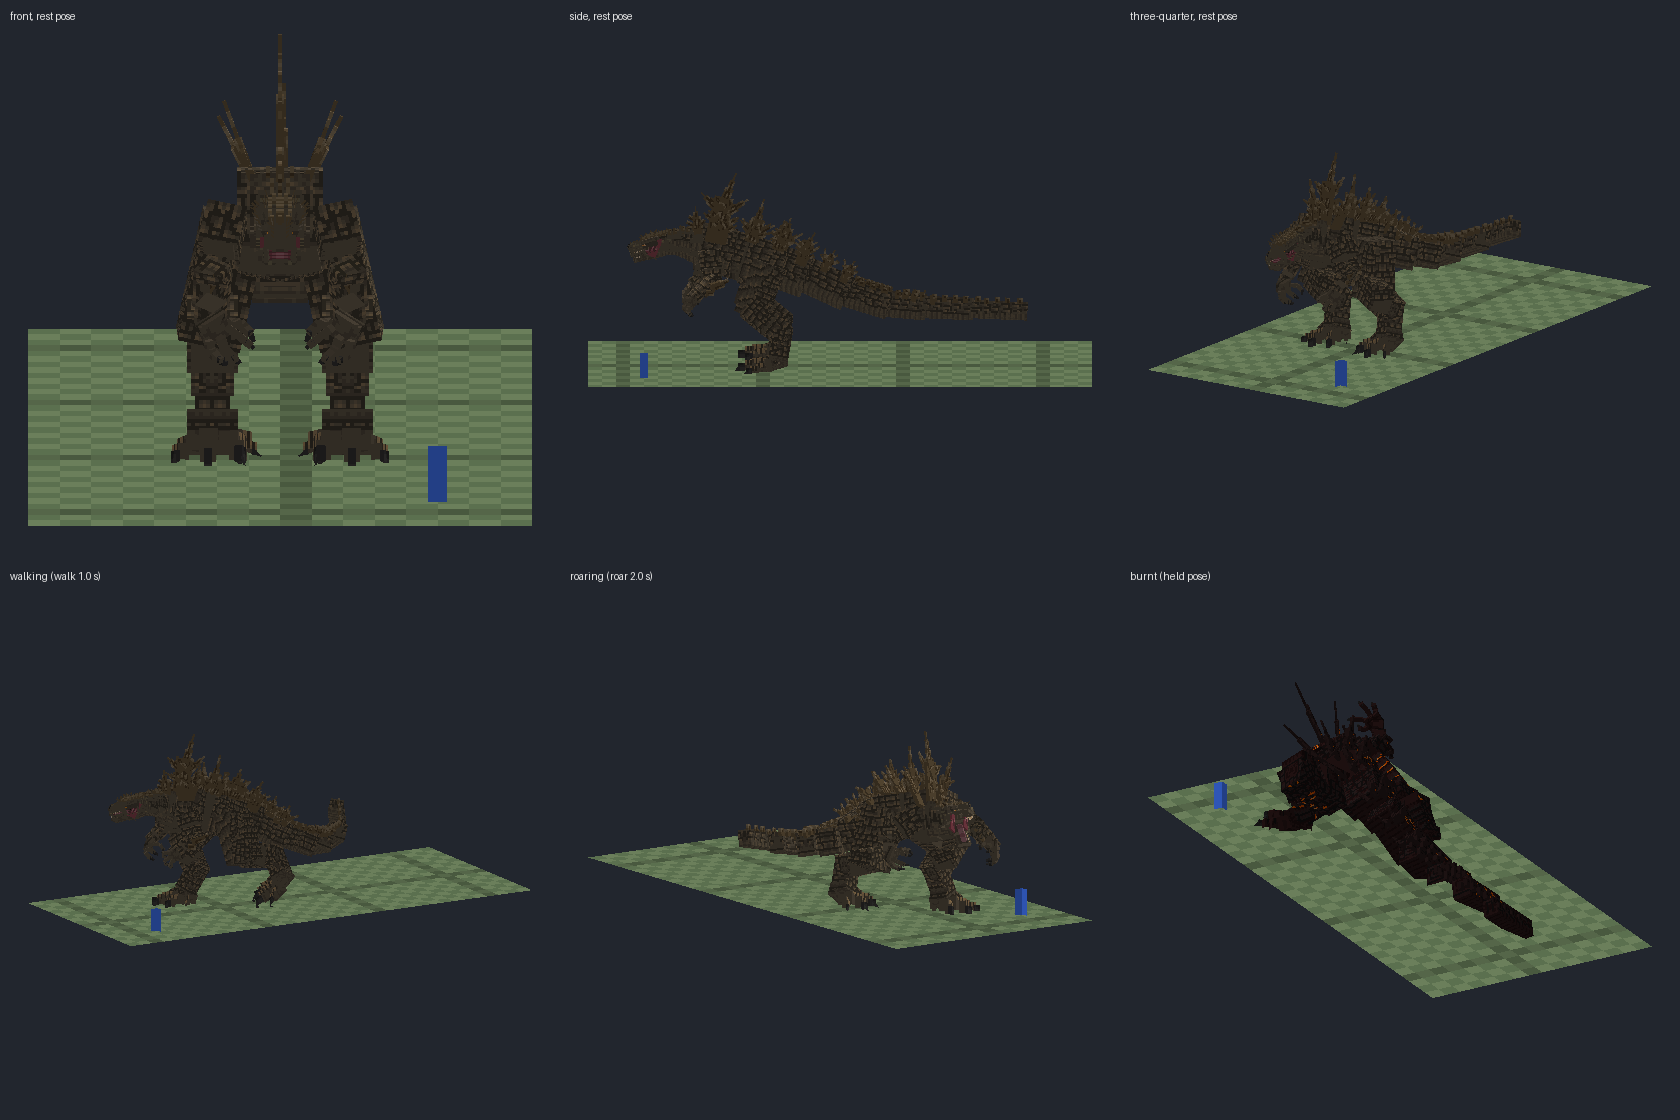
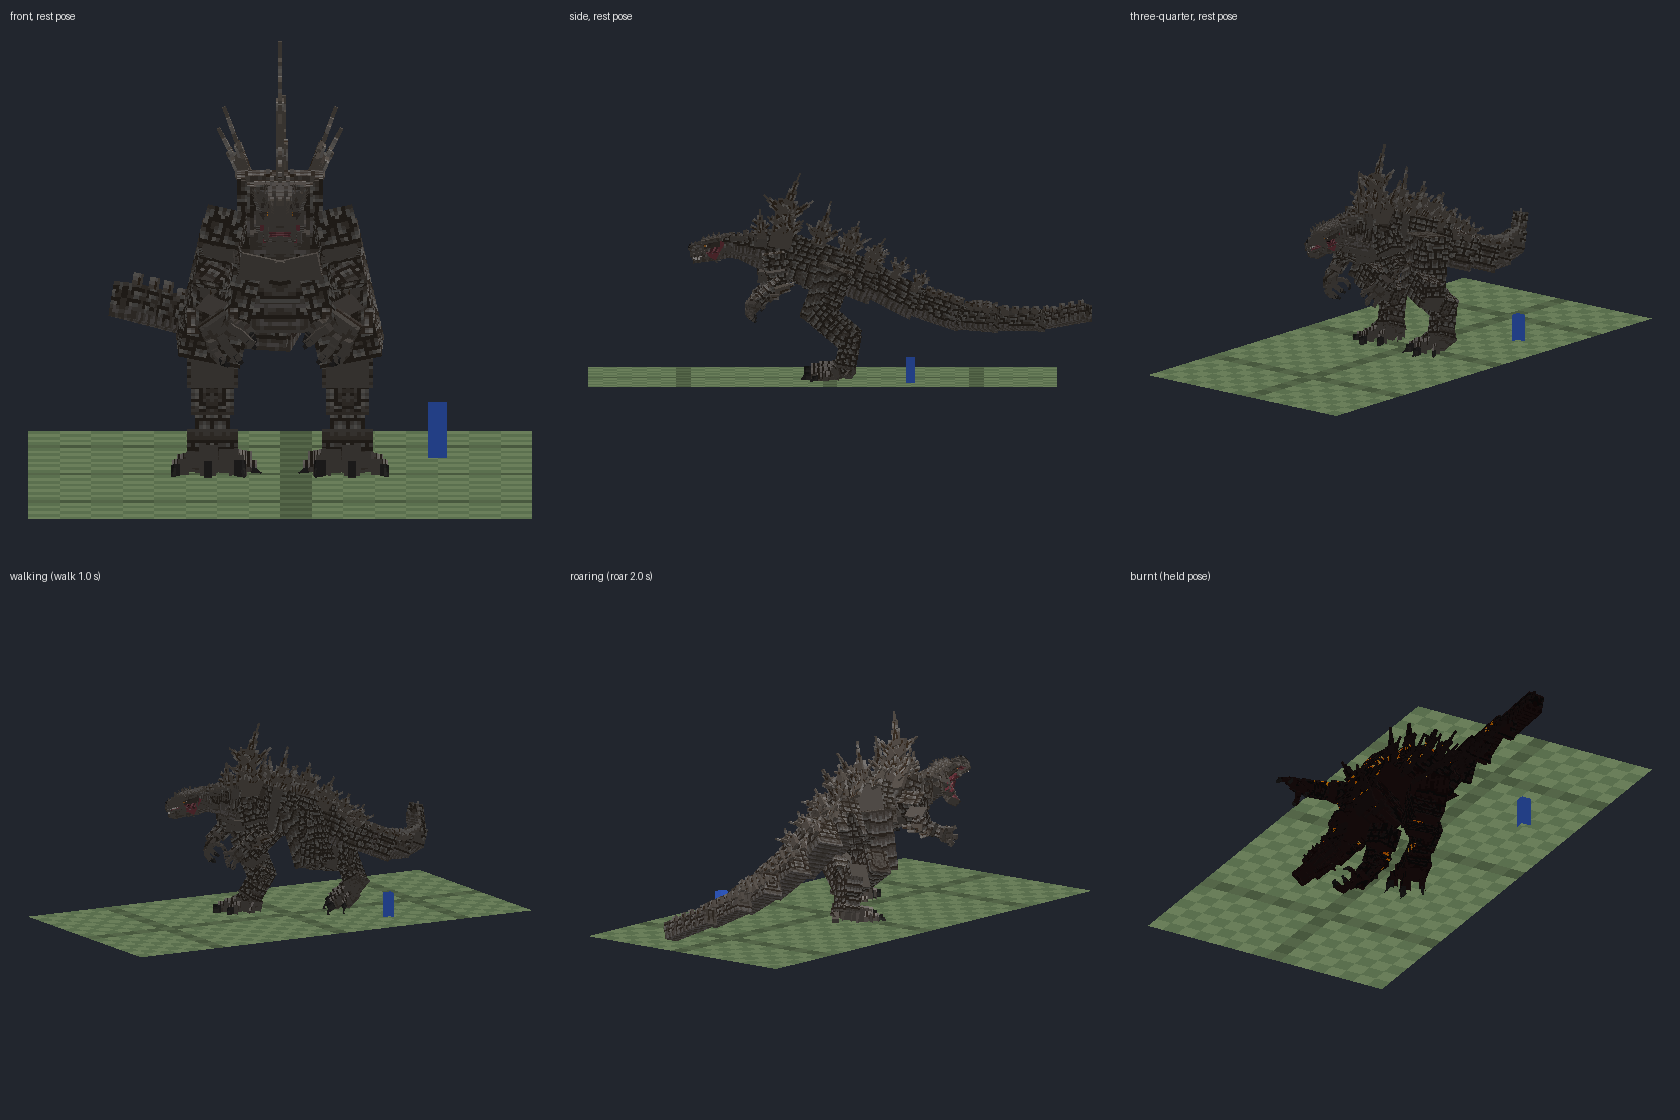
README, previews and credits for this round
The README covers the changes: the flattening (140 blocks, Y 65), the
first breath's delay, the building rule (half his height down to a
quarter, only with nothing to kill), the roar timer, the one-shot guns,
the Odo's grey-brown hide and frenzy, the searchlight's pool of light,
Alex's Caves' mushroom cloud, the Shinsei Maru and the config screen's
new sliders. docs/odo_preview.png shows the new hide,
docs/shinsei_maru_preview.png the boat. The credits (README and
mods.toml) add Alex's Caves' mushroom cloud (AlexModGuy, GNU LGPL).

Claude-Session: https://claude.ai/code/session_01FZRWx5ihaDNBvykxaLAGZd

diff --git a/README.md b/README.md
@@ -2,11 +2,13 @@
 
 A Minecraft Java Edition (Forge 1.20.1, GeckoLib 4) port of the Bedrock add-on
 **"Godzilla Minus One" V3 by GojiDraw**. Godzilla is the add-on's own model, textures and animations, exactly
-(scaled up evenly to stand 10 blocks taller), and so are the Shinden, naval mine, sounds, effects and the atomic
-blast's mushroom cloud. The mod also adds the **Odo Island Monster** (Godzilla's smaller, dinosaur-like form
-from the start of the film): Monster122's **Godzillasaurus** from the "G-1" Bedrock add-on, with its own model,
-skins and animations. There are also a **searchlight**, a **nuclear bomb**, a **remote detonator** for the naval
-mines, and posed **Godzilla statues** for screenshots and thumbnails.
+(scaled up evenly to stand 10 blocks taller), and so are the Shinden, naval mine, sounds and effects. The atomic
+blast's mushroom cloud is **Alex's Caves'** orange nuclear mushroom cloud, ported. The mod also adds the **Odo
+Island Monster** (Godzilla's smaller, dinosaur-like form from the start of the film): Monster122's
+**Godzillasaurus** from the "G-1" Bedrock add-on, with its own model and animations. There are also the **Shinsei
+Maru**, the film's little minesweeper with its stern machine gun and a hold of naval mines, a **searchlight**, a
+**nuclear bomb**, a **remote detonator** for the naval mines, and posed **Godzilla statues** for screenshots and
+thumbnails.
 
 ![Godzilla: front, side, three-quarter and charged](docs/godzilla_preview.png)
 
@@ -20,8 +22,14 @@ tall.*
 
 ![The Odo Island Monster](docs/odo_preview.png)
 
-*The Odo Island Monster (Monster122's Godzillasaurus): front, side and three-quarters, walking, roaring, and
-burnt to a crisp by a nuclear bomb. Same grid and player as above.*
+*The Odo Island Monster (Monster122's Godzillasaurus, his hide turned grey and brown): front, side and
+three-quarters, walking, roaring, and burnt to a crisp by a nuclear bomb. Same grid and player as above.*
+
+![The Shinsei Maru](docs/shinsei_maru_preview.png)
+
+*The Shinsei Maru: the wheel up on the wheelhouse roof, cages on the foredeck, a rack of recovered naval mines
+astern, and the Type 93 machine gun on the stern platform pointing aft. Offline renders on a one-block grid, with
+a player.*
 
 ![Searchlight and nuclear bomb](docs/props_preview.png)
 
@@ -31,9 +39,11 @@ burnt to a crisp by a nuclear bomb. Same grid and player as above.*
 
 ![The mushroom cloud](docs/cloud_preview.png)
 
-*The atomic blast's mushroom cloud, GojiDraw's: his five smoke layers (a dark stalk, a broad grey cap 400 blocks
-across with a darker rim, a brown sooty top), 0.5, 2, 5, 15 and 26 seconds after the blast, from 800 blocks
-away and from about where Godzilla stands (offline simulation of the same layers, over 20-block squares).*
+*The atomic blast's mushroom cloud, Alex's Caves' (its model, textures and animation, 240 blocks tall here):
+the white-hot fireball, the mushroom bursting out of it, the full cap over the fiery plume with the rings spreading,
+the glow cooling to smoke, and the fade at the end (0.25, 1, 5, 20, 40 and 59.5 s), from the side, three-quarters,
+below, above and far away. Offline renders of the same model and passes (tools/preview_cloud.py), over 20-block
+squares; the red post is Godzilla's height. The fiery puffs are drawn as plain blobs there.*
 
 ## Requirements
 
@@ -51,9 +61,10 @@ away and from about where Godzilla stands (offline simulation of the same layers
 | `goji:torrid` | **Torrid**, the Shinden's cannons: right-click while flying it |
 | `goji:mine_spawn` / `goji:mine` | **Naval Mine**, craftable (4 netherite ingots, 4 netherite blocks, TNT in the middle), and a **Remote Detonator** for it |
 | `goji:nuclear_hole` | The crater and blast wave left by the atomic breath |
-| Nuclear explosion particles | The flash, shockwaves and black rain as particles; the mushroom cloud's five smoke layers drawn by `client/render/NuclearCloud.java` |
+| Nuclear explosion particles | The flash, shockwaves and black rain as particles; the mushroom cloud is Alex's Caves' (`client/render/NuclearCloud.java`, `MushroomCloudModel.java`) |
 | Particles, camera shakes, custom boss bar | Recreated in Java (see `client/`); the fade to black is a blur instead |
 | *(from Monster122's G-1 add-on)* | **Odo Island Monster** (`godzillaminusone:odo_island_monster`), with its spawn egg |
+| *(new, from the film)* | **Shinsei Maru**, the minesweeper: a boat with a stern machine gun and a hold of naval mines |
 | *(new)* | **Searchlight**, a mountable WWII searchlight |
 | *(new)* | **Nuclear Bomb**, called in from the sky |
 | *(new)* | **Godzilla statues** in three poses, `/summon` only |
@@ -67,21 +78,26 @@ away and from about where Godzilla stands (offline simulation of the same layers
 - **Radiation aura**: anything within 16 blocks gets "RADIATION POISONING" and Wither.
 - Every footfall shakes the camera, hurts everything near him and **crushes a footprint** of rubble into the
   ground. He smashes through blocks (needs `mobGriefing`).
-- **He knocks down tall buildings**: when he sees anything built standing 15 blocks or more above the ground
-  (within 64 blocks), he goes over and swipes at it, ten layers at a time, until it stands lower than that,
-  then moves on. Trees and hills don't count.
+- **He knocks down tall buildings**: when there's nothing in sight for him to kill and he sees anything built
+  standing **half his height (23 blocks) or more** above the ground (within 64 blocks), he goes over and swipes
+  at it, ten layers at a time, until it's down to **a quarter of his height (11 blocks)**, then leaves it alone.
+  Trees and hills don't count. A mob turning up sends him after it instead.
+- **He roars every 2 minutes** (stopping where he is to do it); set how often in the config screen.
 - Up close he attacks in a combo: a **claw swipe with each hand**, then a **heavy spin** of his whole body with
   the tail sweeping round him and **snapping like a whip**. He bites at things above him, stomps on things
   under his feet, and swings the tail round at anything behind him.
+- For the first **2 to 3 minutes after he appears** he can't use his atomic breath yet.
 - With a target he **charges his atomic breath**: the dorsal plates light up blue one by one from the tail to
   the neck as they punch up, mobs freeze in fear, he breathes in for 4 seconds (the in-breath sound lasts
   exactly as long), then rears his head up above his chest and fires (he tilts it further up at planes). The
   beam pours out of his open mouth, which blazes blue while it lasts. **Two seconds after the beam lands**, a
-  **nuclear blast** goes off there: it kills everything around it, blasts out a large crater, and GojiDraw's
-  mushroom cloud rises over it for 26 seconds. Everyone nearby sees a blur, then black rain falls around ground
+  **nuclear blast** goes off there: it kills everything around it, blasts out a large crater, and a mushroom
+  cloud (Alex's Caves') bursts out of a white-hot fireball: a fiery plume rising under a broad dark cap, low
+  smoke spreading over the ground, rings racing outwards, the glow cooling to smoke; it grows to 240 blocks and
+  hangs there for a minute (both in the config screen). Everyone nearby sees a blur, then black rain falls around ground
   zero (just particles: the weather isn't changed).
-- The blast **levels the land for 600 blocks around**: everything above **Y 60** (trees, grass, buildings,
-  hills) is erased, sweeping outwards from ground zero, and **nothing drops**. Seas and rivers stay. Parts of
+- The blast **levels the land for 140 blocks around**: everything above **Y 65** (trees, grass, buildings,
+  hills) is obliterated, sweeping outwards from ground zero, and **nothing drops**. Seas and rivers stay. Parts of
   the area that aren't loaded yet are flattened when they load. Radius and height are in the config.
 - He then needs **3 minutes to recharge** before the next breath (change it in the config screen).
 - The breath **burns his own mouth**: the flesh round it is left raw, blistered and glowing, smoking and
@@ -99,7 +115,8 @@ away and from about where Godzilla stands (offline simulation of the same layers
 - Right-click to climb in. **W** accelerates, **S** brakes, the mouse steers: look up to climb, down to dive.
   The plane noses up as it climbs and down as it dives, stays level in level flight, and banks into turns.
 - You stay in the cockpit however it pitches and banks. **Right-click fires the plane's cannons** straight
-  ahead, one burst per click (holding the button doesn't keep firing), whatever you're holding.
+  ahead: **one shot per click** (one bang, one flash from each gun; holding the button doesn't keep firing),
+  whatever you're holding.
 - Pilots have the add-on's "plot armour": Godzilla's blasts barely scratch them.
 - Fly within 15 blocks of Godzilla and the plane detonates like a naval mine (the film's ending), and you bail
   out with Slow Falling as a parachute.
@@ -123,12 +140,14 @@ away and from about where Godzilla stands (offline simulation of the same layers
 
 - Godzilla's first form from Odo Island: Monster122's Godzillasaurus, **14 blocks tall** and 29 long, 600
   health. Crouched and leaning forward on huge bent legs, head held low in front on a thick curved neck, clawed
-  hands hanging, a long tail behind, jagged plates rising high over his back, and an olive-brown scaly hide.
+  hands hanging, a long tail behind, jagged plates rising high over his back, and a grey and brown scaly hide.
   His walk, roar, two bites (one with a swipe of his arm), stomp and burnt pose are the add-on's animations.
 - Left alone he wanders and ignores you, but get within about 16 blocks and he **charges**: he runs you down,
   crashing through trees and fences, and **bites** or **stomps** you.
-- **Caught in a searchlight's beam he goes berserk**: he roars and comes for whoever is working the light, and
-  stays enraged for a minute.
+- **Spotted, he goes into a frenzy**: caught in a searchlight's beam, seen by a player (a player looking at him
+  from up to 64 blocks away, or one he can see within 32), or hurt by one, he roars and comes for them: a third
+  faster, biting and stomping 60% harder and twice as often, crashing through wooden doors too, and he
+  doesn't let up for 90 seconds, even when they're out of sight.
 - **Nuke him** with a Nuclear Bomb and he doesn't die: he collapses, **burnt to a crisp**, the embers in his
   hide slowly going out. Nothing can hurt him while he lies there. **Three minutes later he rises again as
   Godzilla.** (Godzilla's own atomic breath just kills him.)
@@ -139,8 +158,27 @@ away and from about where Godzilla stands (offline simulation of the same layers
   ingot, redstone lamp, iron ingot / three iron blocks). Right-click the ground to set it up facing the way
   you look.
 - Right-click it to sit at it: the lamp turns and tilts with where you look, and while you're manning it the
-  beam is lit, reaching 160 blocks and lighting up where it lands. Sneak to get off.
+  beam is lit, reaching 160 blocks. It widens as it goes and lights up **a wide pool** where it lands: a bright
+  spot 10 to 25 blocks across (wider the further it reaches) on whatever it hits, lit by a ring of light
+  sources up to 7 blocks out. Sneak to get off.
 - Hit it like a boat to knock it back into its item.
+
+### Shinsei Maru
+
+- The film's small, run-down wooden minesweeper, about 13.5 blocks long. Crafted from a boat with five dark oak
+  planks under it and an iron ingot on top (iron ingot in the top middle / planks, boat, planks / three planks).
+  Use it on water to put her in, facing the way you look.
+- **Right-click to board.** The first aboard takes the **wheel**, up on the wheelhouse roof: **W/S** throttle,
+  **A/D** steer. Flat out she's **as fast as Godzilla swims** after something (8.4 blocks a second). The second
+  aboard mans the **Type 93 13 mm machine gun** on the stern platform.
+- **The gun points aft** and swings 135 degrees either way: its gunner (or the helmsman, sailing alone) aims it
+  by looking and **fires one round per right-click**. A round **sets off a naval mine** it hits.
+- **Naval mines**: sneak and right-click her to open her **hold** (9 slots, naval mines only), or right-click her
+  with a naval mine in hand to load it. Up to three show in the rack on deck. The helmsman presses **R** ("Drop
+  Naval Mine" in Controls) to **drop one over the stern**: it floats there, and goes off when Godzilla comes near
+  (his radiation sets it off), like the film's mine dragged into his mouth.
+- Hit her like a boat to knock her back into her item, mines and all (one hit in creative). Explosions and
+  Godzilla smash her to matchwood, throwing the crew in the water.
 
 ### Nuclear Bomb
 
@@ -167,14 +205,23 @@ To face a statue a given way, give it a rotation, e.g. `/summon godzillaminusone
 
 ## Configuration
 
-- **In game**: Mods → Godzilla Minus One → Config. **Godzilla Health Bar** turns his health bar at the top of
-  the screen on or off (saved in `config/godzillaminusone-client.toml`). **Atomic Breath Every** sets how long
-  he takes to recharge his atomic breath, from 10 seconds to 10 minutes (3 minutes by default; saved in the
-  gameplay config below, so it applies to worlds played on this computer).
+- **In game**: Mods → Godzilla Minus One → Config.
+  - **Godzilla Health Bar** turns his health bar at the top of the screen on or off.
+  - **Atomic Breath: every** sets how long he takes to recharge his atomic breath, from 10 seconds to 10 minutes
+    (3 minutes by default).
+  - **Roar: every** sets how often he roars on his own, from 30 seconds to 10 minutes, or off (2 minutes).
+  - **Mushroom Cloud Height** (40 to 600 blocks, 240) and **Mushroom Cloud Lasts** (10 seconds to 5 minutes,
+    1 minute) size and time the atomic blast's mushroom cloud.
+
+  The health bar and the cloud are saved in `config/godzillaminusone-client.toml`; the breath and roar intervals
+  in the gameplay config below, so they apply to worlds played on this computer (a server keeps its own).
 - **Gameplay**: `config/godzillaminusone-common.toml`. The add-on's world-ending numbers (2000-block kill
   radius, Wither XXVI) are toned down by default; each option's comment lists the add-on's original value so
   you can restore it. You can also make Godzilla mortal, stop him regenerating, turn off block damage, change
-  the atomic breath's flattening (`flattenRadius`, `flattenLevel`) or stop him knocking down tall buildings.
+  the atomic breath's flattening (`flattenRange`, `flattenDownToY`), his first breath's delay
+  (`firstBreathMinSeconds`, `firstBreathMaxSeconds`), which buildings he knocks down and how far
+  (`demolishFromHeight`, `demolishDownToHeight`), or stop him knocking them down at all. (The flattening and
+  building settings have new names, so a config file from an earlier version picks up the new defaults.)
 
 ## Building
 
@@ -201,16 +248,17 @@ Then make Godzilla's burns, edit the animations, and build the rest:
 ```
 python3 tools/godzilla_burns.py         # the burns round his mouth after the beam (on the add-on's texture layout)
 python3 tools/edit_animations.py        # in-breath, beam from the mouth, swimming bite and peek, melee combo, statue poses
-python3 tools/make_sounds.py            # the in-breath and the nuclear bomb's air-raid siren
-python3 tools/make_odo_model.py "path/to/G-1(RE)"   # the Odo Island Monster, from Monster122's G-1 resource pack
-python3 tools/make_props.py             # the searchlight and nuclear bomb models
+python3 tools/make_sounds.py            # the in-breath, the nuclear bomb's air-raid siren, single gunshots (Shinden, Shinsei Maru)
+python3 tools/make_odo_model.py "path/to/G-1(RE)"   # the Odo Island Monster, from Monster122's G-1 resource pack (hide greyed)
+python3 tools/make_props.py             # the searchlight, nuclear bomb and Shinsei Maru models
 python3 tools/make_icons.py             # item icons of the new items
-python3 tools/make_cloud_textures.py    # the mushroom cloud's smoke sprite, cut out as the add-on draws it
 ```
 
+The mushroom cloud's textures (`textures/effect/mushroom_cloud*.png`) are Alex's Caves' own, unchanged.
+
 Previews without starting the game: `tools/render_preview.py` renders a cube model with its texture (and any
-animation frame, optionally on a one-block grid with a player for scale), `tools/preview_cloud.py` simulates the
-mushroom cloud at given times.
+animation frame, optionally on a one-block grid with a player for scale); `tools/preview_cloud.py` renders the
+mushroom cloud (`tools/mushroom_cloud_model.py`, the same model as the game's) at given times and viewpoints.
 
 ## Credits
 
@@ -219,5 +267,9 @@ Original Bedrock add-on (models, textures, animations, sounds): **GojiDraw**. Th
 
 The Odo Island Monster is **Monster122**'s Godzillasaurus (model, skins and animations) from the "G-1" Bedrock
 add-on.
+
+The atomic blast's mushroom cloud is **Alex's Caves**' (by **AlexModGuy**, GNU LGPL): its model
+(`MushroomCloudModel`), rendering and animation (`MushroomCloudParticle`) and fiery puffs (`SmallExplosionParticle`)
+adapted to this mod, and its `mushroom_cloud` textures, unchanged.
 
 Godzilla is a trademark of Toho Co., Ltd.
